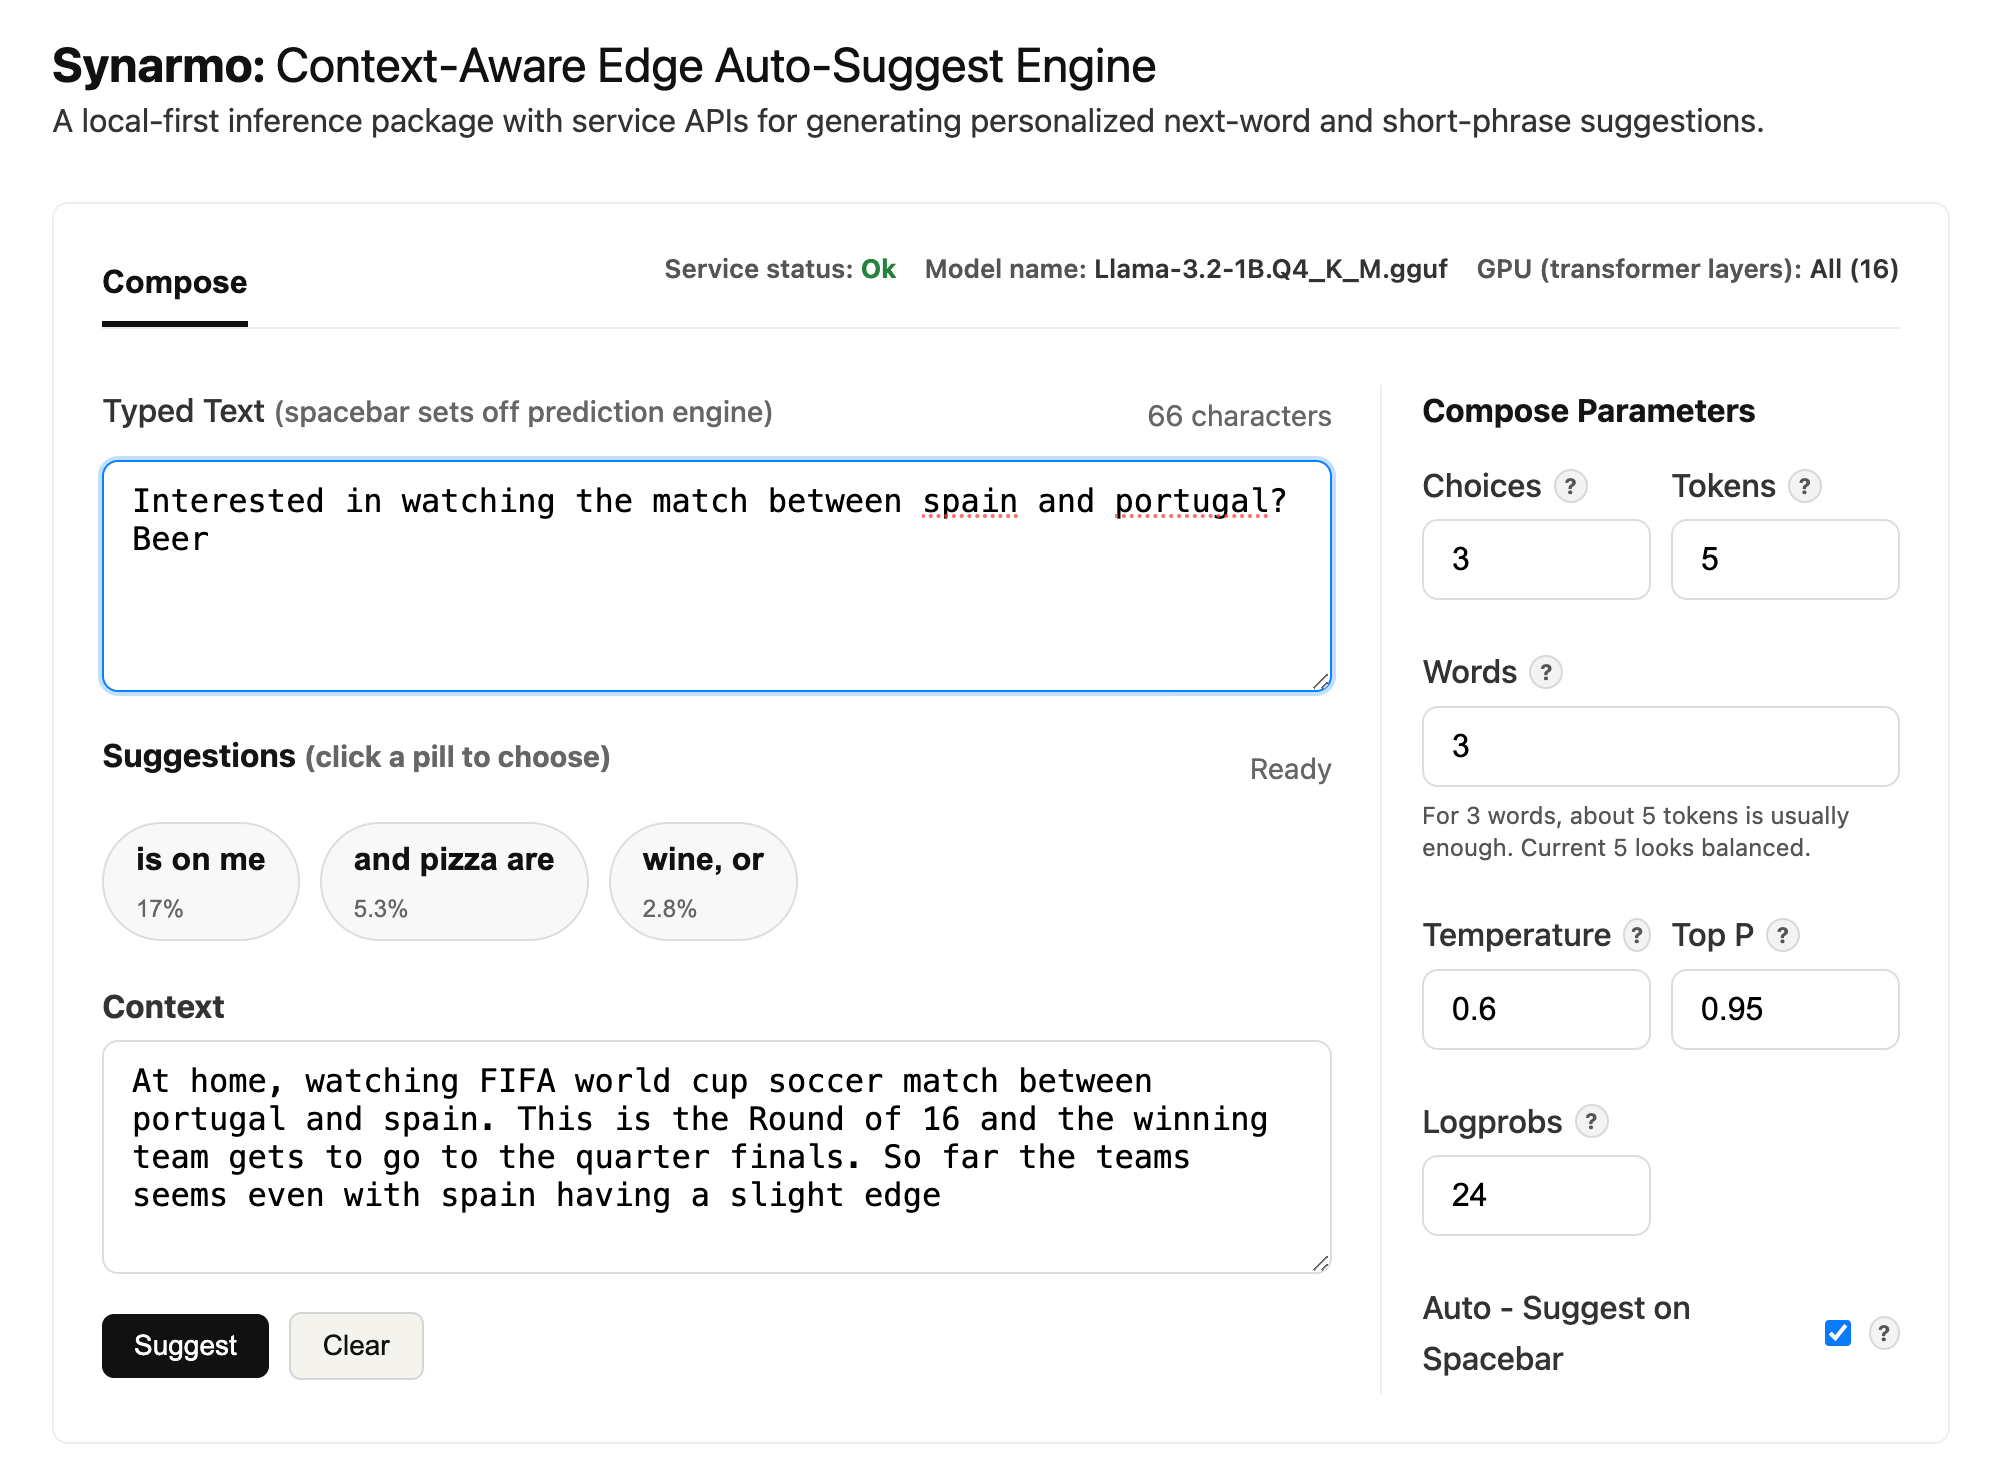
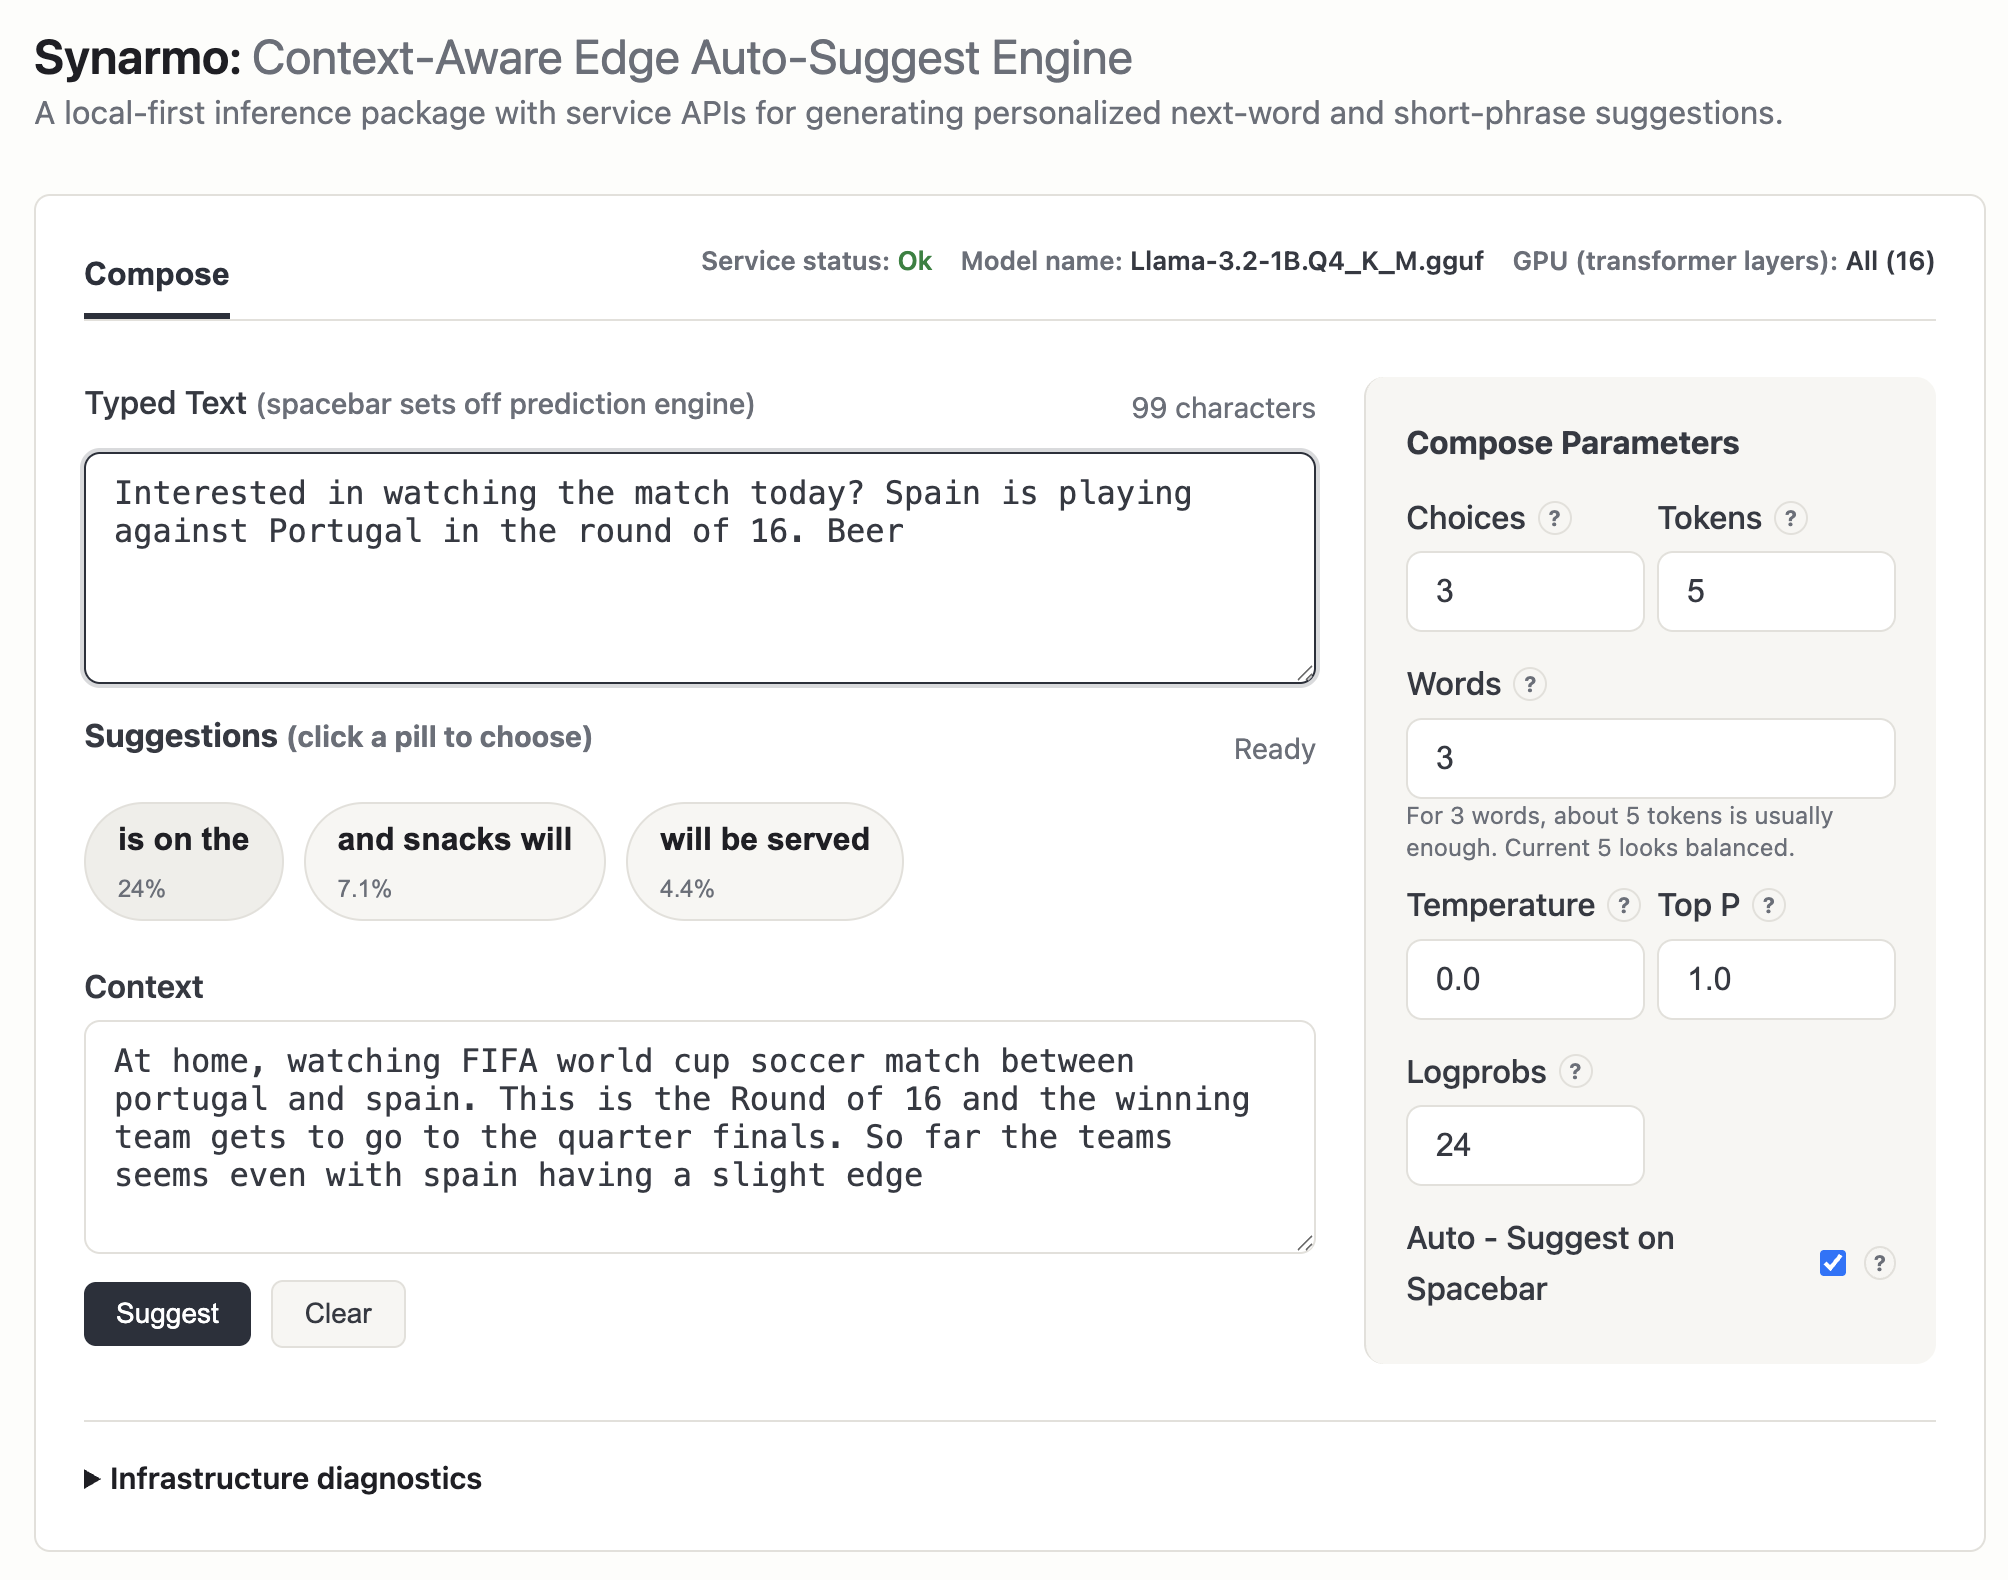
documentation - readme

diff --git a/README.md b/README.md
@@ -22,9 +22,9 @@ sizes, and other load diagnostics.
 
 > Local-first next-word and next-phrase suggestions tuned for short completions.
 
-<video src="https://github.com/user-attachments/assets/ff5bdbd1-2391-4d5a-96e7-730c8100e6c8" controls muted playsinline width="100%"></video>
+<img src="assets/synarmo-context-aware-auto-suggest.png" alt="Synarmo interactive UI" width="100%">
 
-<p align="center"><em>Synarmo context-aware compose loop predicting short suggestions locally.</em></p>
+<p align="center"><em>Synarmo interactive browser UI for testing and tuning suggestions.</em></p>
 
 Synarmo is intended to be used as:
 
@@ -472,6 +472,12 @@ Words = 3  -> go outside with
 
 This auto-suggest strategy uses logprobs to pick strong starter tokens, then
 makes one short deterministic expansion call for each starter.
+
+### Model Memory Footprint
+
+<img src="assets/llama-3.2-1B-model-footprint.png" alt="Llama-3.2-1B model memory footprint" width="100%">
+
+<p align="center"><em>Memory footprint of the Llama-3.2-1B Q4_K_M model during inference.</em></p>
 
 ### Use Service Endpoints
 